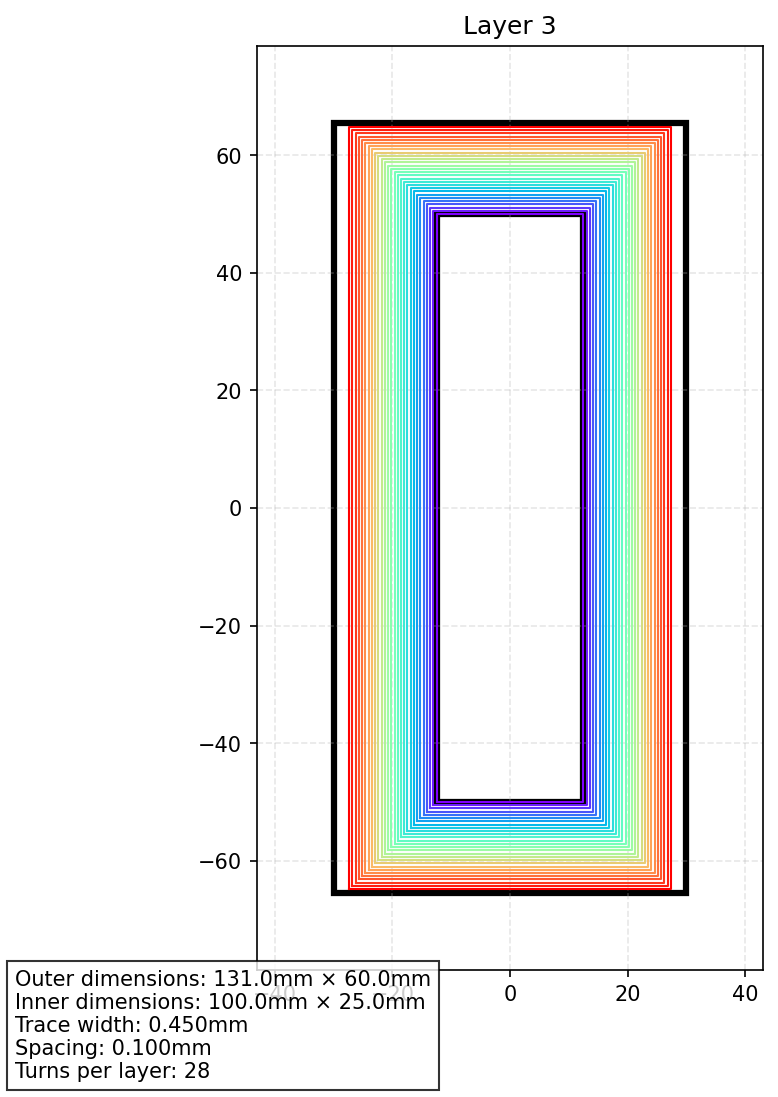
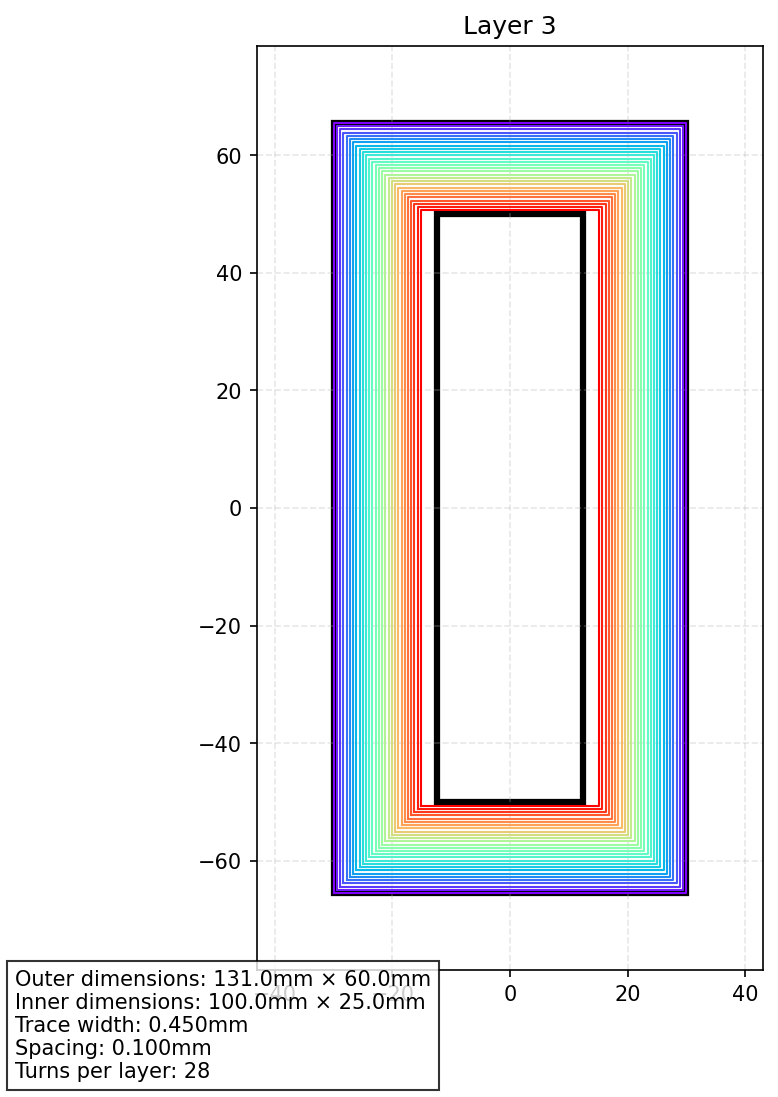
Fix 2d sketch dimensions

Changed region(s): [[0.4319, 0.093, 0.8946, 0.8368]]

diff --git a/design.py b/design.py
@@ -48,8 +48,29 @@ class MagnetorquerOptimizer:
         self.max_current = self.max_power / self.v_dd
         self.current_density_limit = constants.get('current_density_limit', 35e6)  # A/m²
 
+    def calculate_turn_length(self, turn_number, trace_width):
+        """Calculate length of a specific turn starting from outer edge"""
+        offset = turn_number * (trace_width + self.min_trace_spacing)
+        current_length = self.outer_length - 2 * offset
+        current_width = self.outer_width - 2 * offset
+        
+        # Account for spiral progression
+        long_side1 = current_length
+        short_side1 = current_width
+        long_side2 = current_length - (trace_width + self.min_trace_spacing)
+        short_side2 = current_width - (trace_width + self.min_trace_spacing)
+        
+        return long_side1 + short_side1 + long_side2 + short_side2
+
+    def calculate_area(self, turn_number, trace_width):
+        """Calculate area enclosed by a specific turn starting from outer edge"""
+        offset = turn_number * (trace_width + self.min_trace_spacing)
+        length = self.outer_length - 2 * offset
+        width = self.outer_width - 2 * offset
+        return length * width
+
     def calculate_max_turns(self, trace_width):
-        """Calculate maximum number of turns possible between inner and outer edges"""
+        """Calculate maximum number of turns possible between outer and inner edges"""
         if trace_width <= 0:
             return 0
             
@@ -61,26 +82,13 @@ class MagnetorquerOptimizer:
             return 0
             
         # Calculate turns that can fit in the smaller dimension
+        # Account for trace width and spacing on both sides
         max_turns = min(
-            int(available_height / (trace_width + self.min_trace_spacing)),
-            int(available_width / (trace_width + self.min_trace_spacing))
+            int(available_height / (trace_width + 2 * self.min_trace_spacing)),
+            int(available_width / (trace_width + 2 * self.min_trace_spacing))
         )
         
         return max(1, max_turns)
-
-    def calculate_turn_length(self, turn_number, trace_width):
-        """Calculate length of a specific turn including spiral progression"""
-        offset = turn_number * (trace_width + self.min_trace_spacing)
-        current_length = self.inner_length + 2 * offset
-        current_width = self.inner_width + 2 * offset
-        
-        # Account for spiral progression
-        long_side1 = current_length
-        short_side1 = current_width
-        long_side2 = current_length + (trace_width + self.min_trace_spacing)
-        short_side2 = current_width + (trace_width + self.min_trace_spacing)
-        
-        return long_side1 + short_side1 + long_side2 + short_side2
 
     def calculate_resistance(self, num_turns, trace_width):
         """Calculate total resistance of the rectangular coil"""
@@ -100,13 +108,6 @@ class MagnetorquerOptimizer:
         base_resistance = self.copper_resistivity * total_wire_length / wire_cross_section
         temp_factor = 1 + self.temperature_coefficient * (self.operating_temp - self.ambient_temp)
         return base_resistance * temp_factor
-
-    def calculate_area(self, turn_number, trace_width):
-        """Calculate area enclosed by a specific turn"""
-        offset = turn_number * (trace_width + self.min_trace_spacing)
-        length = self.inner_length + 2 * offset
-        width = self.inner_width + 2 * offset
-        return length * width
 
     def calculate_magnetic_moment(self, num_turns, current):
         """Calculate magnetic moment of rectangular coil"""

diff --git a/2d-sketch.py b/2d-sketch.py
@@ -38,10 +38,13 @@ def generate_spiral_coordinates(params):
     
     paths = []
     
+    # Start from outer edge and work inward
     for i in range(num_turns):
+        # Calculate offset from outer edge
         offset = i * (trace_width + trace_spacing)
-        width = inner_width + 2 * offset
-        length = inner_length + 2 * offset
+        # Start with outer dimensions and subtract offset
+        width = outer_width - 2 * offset
+        length = outer_length - 2 * offset
         
         half_width = width / 2
         half_length = length / 2
@@ -51,9 +54,10 @@ def generate_spiral_coordinates(params):
         
         paths.append((turn_x, turn_y))
         
-        next_width = inner_width + 2 * (offset + trace_width + trace_spacing)
-        next_length = inner_length + 2 * (offset + trace_width + trace_spacing)
-        if next_width >= outer_width or next_length >= outer_length:
+        # Check if next turn would be smaller than inner cutout
+        next_width = outer_width - 2 * (offset + trace_width + trace_spacing)
+        next_length = outer_length - 2 * (offset + trace_width + trace_spacing)
+        if next_width <= inner_width or next_length <= inner_length:
             break
     
     return paths
